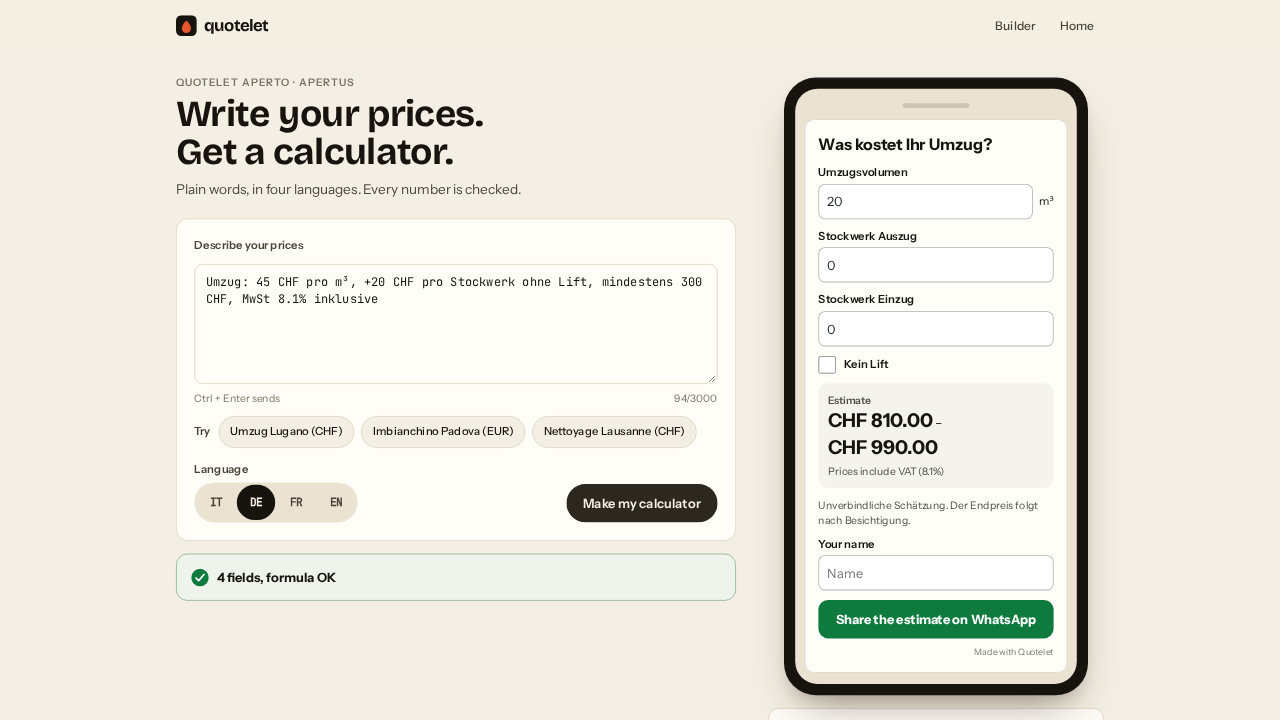
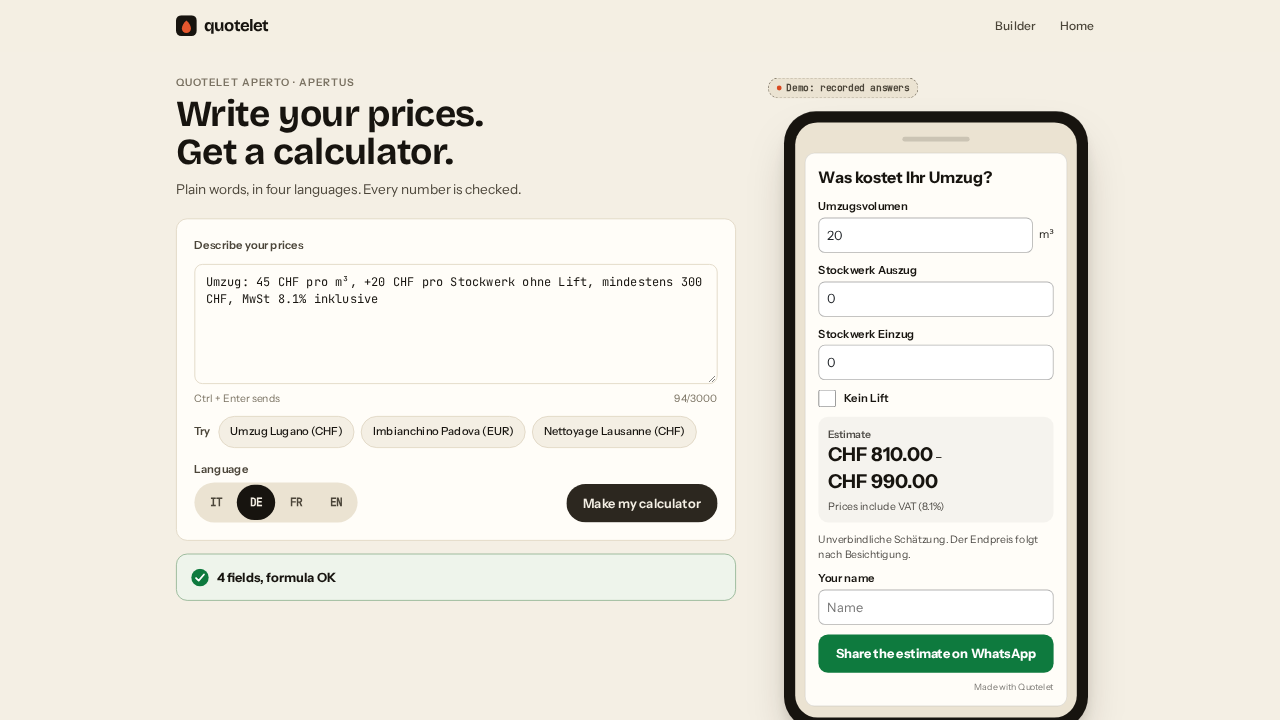
H-01 accept (e): re-shoot aperto page/q/cover with the preview origin in the share link, CHF 1’060.00 separator and the demo label (video unchanged)

diff --git a/sim/aperto-proof.ts b/sim/aperto-proof.ts
@@ -10,6 +10,19 @@ import { EXAMPLES } from '../packages/aperto/src/examples.ts'
 
 const BASE = process.env.QL_BASE ?? 'http://127.0.0.1:4173'
 const OUT = 'proof'
+// SHARE_ORIGIN=https://<preview>: shots open the pages at that origin and every request to it is served
+// by the local build at BASE (same dist as the preview, recorded answers), so the share link and embed
+// code show the preview URL instead of 127.0.0.1. Used because the preview sits behind Vercel protection.
+const ORIGIN = (process.env.SHARE_ORIGIN ?? BASE).replace(/\/$/, '')
+async function mapOrigin(ctx: BrowserContext) {
+  if (ORIGIN === BASE) return
+  await ctx.route(`${ORIGIN}/**`, async (r) => {
+    const headers = { ...r.request().headers() }
+    if (headers.origin) headers.origin = BASE
+    const res = await r.fetch({ url: r.request().url().replace(ORIGIN, BASE), headers })
+    await r.fulfill({ response: res })
+  })
+}
 const RAW = process.env.RAW ?? '/tmp/quotelet-aperto-demo.raw.webm'
 const MOVER = 'mover-lugano'
 const BROKEN = 'Gardening: 50 per hour, a bit more on Sundays'
@@ -20,8 +33,8 @@ const preview = (p: Page) => tid(p, 'aperto-preview')
 const widget = (p: Page) => tid(p, 'share-widget')
 const overflow = (p: Page) => p.evaluate(() => document.documentElement.scrollWidth - window.innerWidth)
 
-async function freshAperto(p: Page) {
-  await p.goto(`${BASE}/aperto`)
+async function freshAperto(p: Page, base = BASE) {
+  await p.goto(`${base}/aperto`)
   await p.evaluate(() => localStorage.removeItem('quotelet:aperto-draft'))
   await p.reload()
   await tid(p, 'aperto-text').waitFor()
@@ -48,8 +61,9 @@ async function shots() {
   try {
     for (const [w, h] of [[375, 812], [1440, 900]]) {
       const ctx = await b.newContext({ viewport: { width: w, height: h }, deviceScaleFactor: w === 375 ? 2 : 1 })
+      await mapOrigin(ctx)
       const p = await ctx.newPage()
-      await freshAperto(p)
+      await freshAperto(p, ORIGIN)
       await makeMover(p)
       await settle(p)
       await p.screenshot({ path: `${OUT}/aperto-page-${w}.png`, fullPage: true })
@@ -58,7 +72,8 @@ async function shots() {
       await customerItalian(p, link)
       await settle(p)
       await p.screenshot({ path: `${OUT}/aperto-q-${w}.png`, fullPage: true })
-      console.log(`shots ${w}: /aperto overflow ${ox}px, /q overflow ${await overflow(p)}px`)
+      const demo = await tid(p, 'msg-demo').count()
+      console.log(`shots ${w}: link ${link.slice(0, 60)}…, /aperto overflow ${ox}px, /q overflow ${await overflow(p)}px, /q demo label ${demo}`)
       await ctx.close()
     }
     // Cover: 1600x900 CSS px rendered at 0.8x, so the PNG is 1280x720 and shows form, validator and preview.
